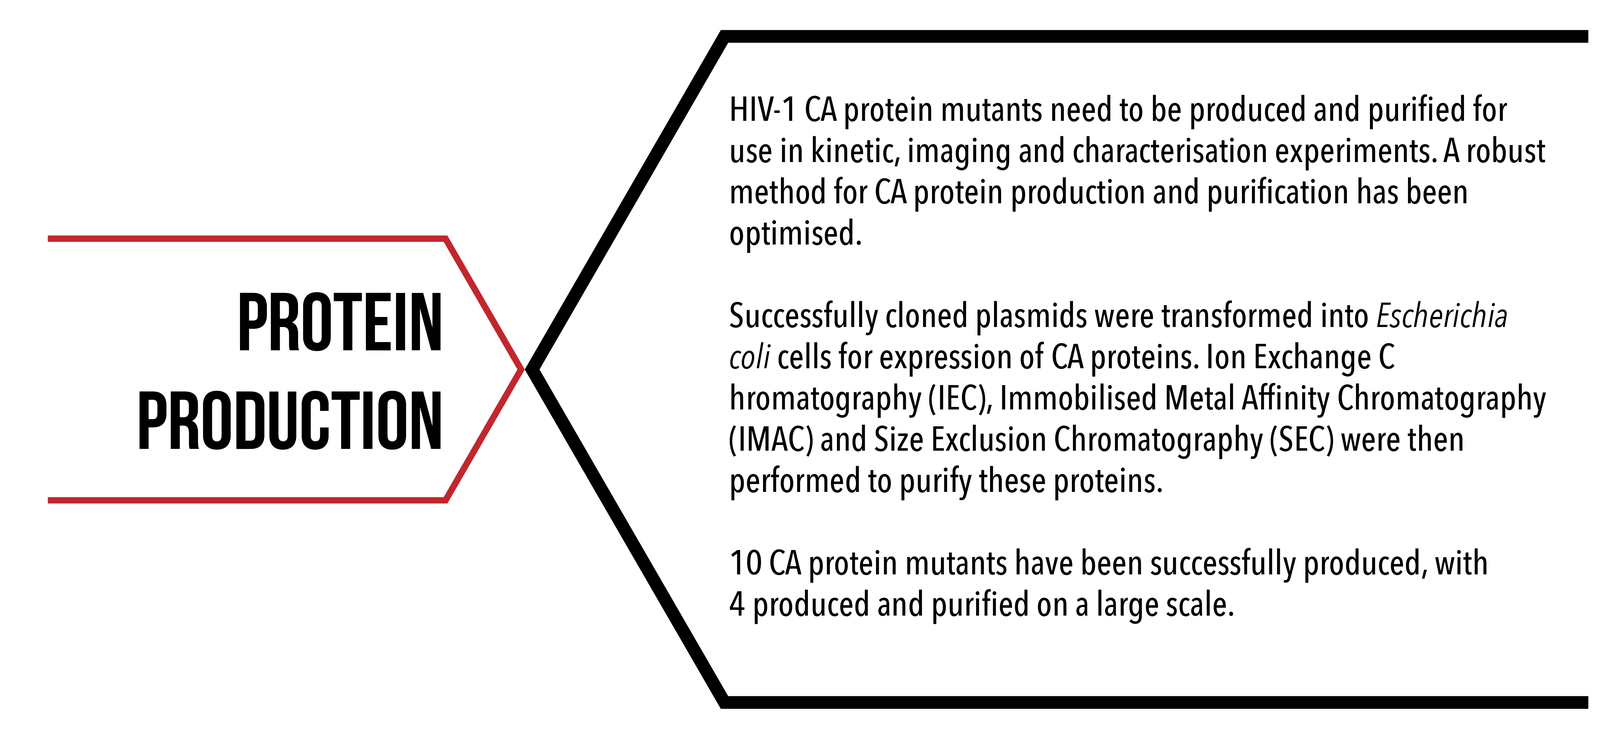
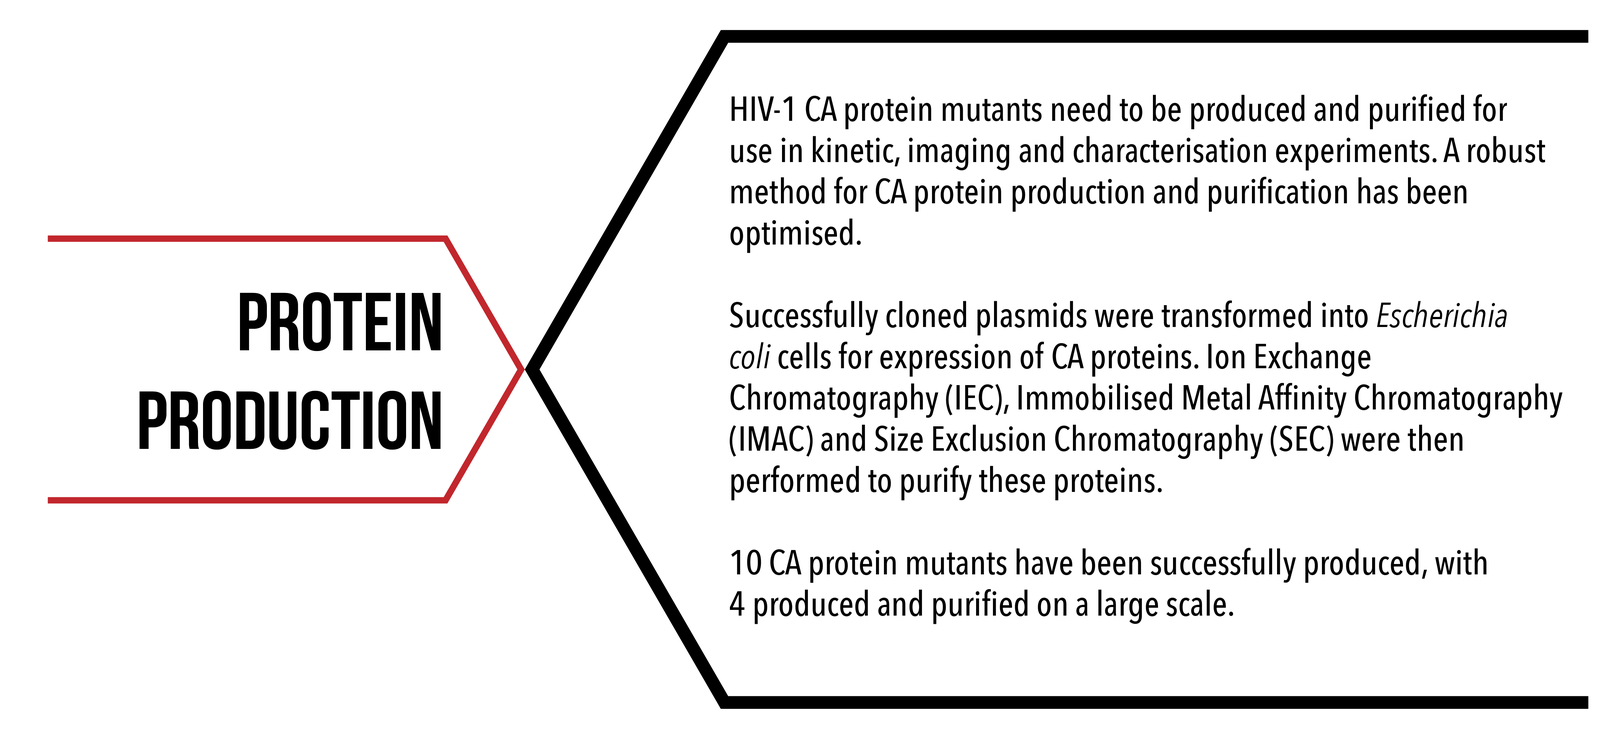
Jon proofs II

Changed region(s): [[0.4657, 0.4978, 0.9935, 0.5601]]

diff --git a/lab-book/kinetics/spr.html b/lab-book/kinetics/spr.html
@@ -60,7 +60,7 @@
 					<h2>Introduction</h2>
 				</div>
 
-				<p>Surface plasmon resonance (SPR) is a phenomenon that occurs when focused light strikes metal surfaces at a particular angle. At a certain angle of incidence, light reflected off the metal surface has a graded reduction in its intensity and this reduction can be measured <sup>1</sup>. SPR instruments exploit this phenomenon, allowing for quantifiable, label-free, real-time detection of molecular binding by mass on the nano-scale (see figure 1 for schematic diagram), with sensitivity in the picrogram per mm<sup>2</sup> range <sup>2</sup>.</p>
+				<p>Surface plasmon resonance (SPR) is a phenomenon that occurs when focused light strikes metal surfaces at a particular angle. At a certain angle of incidence, light reflected off the metal surface has a graded reduction in its intensity and this reduction can be measured <sup>1</sup>. SPR instruments exploit this phenomenon, allowing for quantifiable, label-free, real-time detection of molecular binding by mass on the nano-scale (see figure 1 for schematic diagram), with sensitivity in the picogram per mm<sup>2</sup> range <sup>2</sup>.</p>
 
 				<p>The assembly of the HIV capsid is governed by the interactions of its individual protein subunits – but the mechanisms by which they coordinate this behaviour is unknown. Obtaining quantitative data for HIV-1 CA protein binding to its neighbours is paramount in deriving the binding affinity that CA proteins have to each other. We can use SPR to indirectly measure binding of CA proteins to each other. Knowing the rate of association and dissociation of CA proteins to each other will lead not only to fundamental understanding of HIV capsid self-assembly, but also to greater understanding of molecular-self assembly more generally, and to new techniques to test HIV capsid-disrupting peptides.</p>
 
@@ -74,7 +74,7 @@
 
 				<p class="caption">Figure 2: SPR DNA template and CA protein attachment.</p>
 
-				<p>We functionalised a gold-plated CM5 chip for use in our Biacore SPR instrument using streptavidin/biotin chemistry. This combination of surface chemistry provides a means to anchor DNA templates to the surface. First, we add a biotinylated 15 base DNA anchor to the surface, the flow on DNA racquet scaffolds that contain complementary 15 base overhang. We are then able to flow on the protein of interest and observe for binding. Binding of biological material to the DNA racquet is detected as a phase shift in light reflected off the chip's surface, with the distance of the phase shift corresponding to the mass of material that binds. Using SPR we can detect binding and unbinding of CA proteins to our DNA racquet template under a number of different conditions <sup>3</sup>. Analysing this data and using it to parameterise our <a href="/lab-book/mathematical-modelling.html">mathematical models</a>, we can derive the rates of association (k<sub>on</sub>) and dissociation (k<sub>off</sub>) for both the attachment chemistry of the 6His tag and subsequently the binding of the capsid protein to itself.</p>
+				<p>We functionalised a gold-plated CM5 chip for use in our Biacore SPR instrument using streptavidin/biotin chemistry. This combination of surface chemistry provides a means to anchor DNA templates to the surface. First, we add a biotinylated 15 base DNA anchor to the surface, then flow on DNA racquet scaffolds that contain complementary 15 base overhang. We are then able to flow on the protein of interest and observe for binding. Binding of biological material to the DNA racquet is detected as a phase shift in light reflected off the chip's surface, with the distance of the phase shift corresponding to the mass of material that binds. Using SPR we can detect binding and unbinding of CA proteins to our DNA racquet template under a number of different conditions <sup>3</sup>. Analysing this data and using it to parameterise our <a href="/lab-book/mathematical-modelling.html">mathematical models</a>, we can derive the rates of association (k<sub>on</sub>) and dissociation (k<sub>off</sub>) for both the attachment chemistry of the 6His tag and subsequently the binding of the capsid protein to itself.</p>
 
 				<div id="aims">
 					<h2>Aims</h2>
@@ -196,7 +196,7 @@
 
 				<p>Monomeric: (W184A/M185A, C-terminal 6His) – HIV-1 CA with a mutation that increases the propensity for the protein to remain monomeric in solution and with a polyhistidine tag for conjugation to DNA.</p>
 
-				<p>Dimer disrupted 6His fractions: (W184A/M185A, C-terminal 6His) – Three other fractions of the above <em>Monomeric</em> protein constructs were obtained before and after elution using size exclusion chromatography:</p>
+				<p>Dimer disrupted 6His fractions: (W184A/M185A, C-terminal 6His) – Three other fractions of the above <em>monomeric</em> protein constructs were obtained before and after elution using size exclusion chromatography:</p>
 
 				<img class="img-fluid protcon" src="/images/spr-6.jpg" />
 
@@ -335,9 +335,9 @@
 					<h2>Conclusions</h2>
 				</div>
 
-				<p>Novel single-stranded DNA origami racquets and linear templates were successfully synthesised and their predicted size bwfore and after annealing NTA-modified DNA and complementary DNA confirmed on 10% native PAGE gels. Proof of concept of the ability of the racquets to localise protein binding using NiNTA-DNA chemistry was confirmed using SPR but only Monomeric (W184A/M185A, C-terminal 6His) and Dimer-fraction size-excluded (W184A/M185A, C-terminal 6His) CA proteins showed binding to our racquets without nonspecific binding. Racquet templates with more NTA-DNA sites were able to bind more CA protein but more work needs to be done to confirm whether that increase is exactly proportional to the number of NTA-DNA sites on the racquet templates. </p>
+				<p>Novel single-stranded DNA origami racquets and linear templates were successfully synthesised and their predicted size before and after annealing NTA-modified DNA and complementary DNA confirmed on 10% native PAGE gels. Proof of concept of the ability of the racquets to localise protein binding using NiNTA-DNA chemistry was confirmed using SPR but only monomeric (W184A/M185A, C-terminal 6His) and dimer-fraction size-excluded (W184A/M185A, C-terminal 6His) CA proteins showed binding to our racquets without nonspecific binding. Racquet templates with more NTA-DNA sites were able to bind more CA protein but more work needs to be done to confirm whether that increase is exactly proportional to the number of NTA-DNA sites on the racquet templates. </p>
 
-				<p>Hexamer intermediate CA proteins appear to have an affinity directly to DNA and are able to seed larger intermediate structures with DNA acting as a seed. This was evident for both the Discrete Hexameric CA proteins and the Hexamer fraction of the W184A/M185A, C-terminal 6His mutant CA proteins. Using SPR, we were able to confirm that we can measure the interactions rates between protein subunits to DNA scaffolds, and further work will allow us to extrapolate the binding affinity of the CA proteins to each other.</p>
+				<p>Hexamer intermediate CA proteins appear to have an affinity directly to DNA and are able to seed larger intermediate structures with DNA acting as a seed. This was evident for both the discrete hexameric CA proteins and the hexamer fraction of the W184A/M185A, C-terminal 6His mutant CA proteins. Using SPR, we were able to confirm that we can measure the interactions rates between protein subunits to DNA scaffolds, and further work will allow us to extrapolate the binding affinity of the CA proteins to each other.</p>
 
 				<p>Further work to derive association and dissociation rates of HIV capsid protein interactions will continue at UNSW’s Lee Lab. Multi-capsid proteins were seeded on DNA racquets but further work, including testing with disruptive peptides, still needs to be done to confirm capsid protein conformation. If CA hexamer-disrupting peptides were able to prevent the binding of CA protein to racquets with 6 NTA-DNA sites we would be able to confirm that our racquet template is able to seed the formation of hexameric CA proteins. </p>
 

diff --git a/lab-book/protein-engineering/protein-production.html b/lab-book/protein-engineering/protein-production.html
@@ -80,7 +80,7 @@
 				<img class="img-fluid" src="/images/production-3.png" style="float:right; width: 50%" />
 				<p class="caption">Figures 1 (left) and 2 (right): Flowcharts of CA protein production and purification method.</p>
 
-				<p>Plasmids containing the desired insert were heat shock transformed into <em>Escherichia coli </em>BL21 (DE3) pLysS cells. The bacteria were grown in Luria broth (LB) media at 37C, induced by addition of isopropyl &beta;-D-1-thiogalactopyranoside (IPTG) to 0.4 mM when the optical density at 600 nm of the media reached 0.6 and then grown overnight at 20C. The cell pellet was collected by centrifugation and lysed by sonication. The cell lysate was then centrifuged to remove cell debris, and only the soluble supernatant was collected.</p>
+				<p>Plasmids containing the desired insert were heat shock transformed into <em>Escherichia coli </em>BL21 (DE3) pLysS cells. The bacteria were grown in Luria broth (LB) media at 37&deg;C, induced by addition of isopropyl &beta;-D-1-thiogalactopyranoside (IPTG) to 0.4 mM when the optical density at 600 nm of the media reached 0.6 and then grown overnight at 20&deg;C. The cell pellet was collected by centrifugation and lysed by sonication. The cell lysate was then centrifuged to remove cell debris, and only the soluble supernatant was collected.</p>
 
 				<p>NaCl was added to 2.5 M to precipitate the CA protein, as the CA protein aggregates under high salt conditions. After incubation on a spinning rotor at 4C overnight, the protein was collected by centrifugation, resuspended and a second salt precipitation was performed. After centrifugation and resuspension in a buffer with NaCl, the protein was purified with either Immobilised Metal Affinity Chromatography (IMAC) or Ion Exchange Chromatography (IEC) and Size Exclusion Chromatography (SEC). The purified protein was then concentrated by centrifugation using a 10 kDa filter and snap frozen in 10% glycerol.</p>
 
@@ -91,15 +91,15 @@
 
 					<h3>Heat shock transformation into chemically competent <em>E. coli</em> BL21DE3 (pLysS) cells</h3>
 
-					<p>2 &micro;L of plasmid construct was incubated with 18 &micro;L of chemically competent <em>E. coli</em> BL21DE3 (pLysS) cells on ice for 20 minutes. The cells were then heat shocked for 45 seconds at 42C and placed back onto ice for 2 minutes. The cells were allowed to grow for 45 minutes in 200 &micro;L of SOC outgrowth media (NEB) at 37C and 170 rpm, spread plated onto Luria broth (LB) agar plates containing 100 &micro;g/mL of ampicillin and 34 &micro;g/mL of chloramphenicol and grown at 37C overnight.</p>
+					<p>2 &micro;L of plasmid construct was incubated with 18 &micro;L of chemically competent <em>E. coli</em> BL21DE3 (pLysS) cells on ice for 20 minutes. The cells were then heat shocked for 45 seconds at 42C and placed back onto ice for 2 minutes. The cells were allowed to grow for 45 minutes in 200 &micro;L of SOC outgrowth media (NEB) at 37&deg;C and 170 rpm, spread plated onto Luria broth (LB) agar plates containing 100 &micro;g/mL of ampicillin and 34 &micro;g/mL of chloramphenicol and grown at 37&deg;C overnight.</p>
 
 					<h3>Generation of starter culture</h3>
 
-					<p>One colony was selected from the plate grown overnight at random and grown in 15 mL of LB containing 100 &micro;g/mL of ampicillin and 34 &micro;g/mL of chloramphenicol at 37C and 170 rpm until the optical density at 600 nm (OD600) &gt; 1.</p>
+					<p>One colony was selected from the plate grown overnight at random and grown in 15 mL of LB containing 100 &micro;g/mL of ampicillin and 34 &micro;g/mL of chloramphenicol at 37&deg;C and 170 rpm until the optical density at 600 nm (OD600) &gt; 1.</p>
 
-					<h3>Large scale grow up of <em>E. coli</em> (4-8 L) at 37C 160 rpm.</h3>
+					<h3>Large scale grow up of <em>E. coli</em> (4-8 L) at 37&deg;C 160 rpm.</h3>
 
-					<p>4 to 8 flasks containing 500 mL of LB containing 100 &micro;g/mL of ampicillin and 34 &micro;g/mL of chloramphenicol at 37C were inoculated with the starter culture to a starting OD600 of 0.005. The cells were grown at 37C and 170 rpm and OD600 was periodically measured. When the OD600 reached above 0.6, IPTG was added to a final concentration of 0.4 mM to induce the expression of the CA protein. After induction, the cells were grown overnight at 20C and 170 rpm.</p>
+					<p>4 to 8 flasks containing 500 mL of LB containing 100 &micro;g/mL of ampicillin and 34 &micro;g/mL of chloramphenicol at 37&deg;C were inoculated with the starter culture to a starting OD600 of 0.005. The cells were grown at 37&deg;C and 170 rpm and OD600 was periodically measured. When the OD600 reached above 0.6, IPTG was added to a final concentration of 0.4 mM to induce the expression of the CA protein. After induction, the cells were grown overnight at 20&deg;C and 170 rpm.</p>
 
 					<h3>Collection of cells by centrifugation</h3>
 
@@ -151,11 +151,11 @@
 
 				<p class="caption">Figure 3: Purification of HIV-1 CA proteins with A280 UV absorbance elution profiles and SDS-gel confirmation, from (A) Ion Exchange Chromatography and (B) Size Exclusion Chromatograhy. Flow through of Wild type HIV-1 CA (dimer) (top row) and Wild-type HIV-1 CA (dimer) with 6-Histidine tag (bottom row) were collected in 1-2mL fractions. Fractions corresponding to the largest elution peaks were run on SDS-PAGE gels.</p>
 
-				<p>Due to technical difficulties with our AKTA machine, we were unable to perform IMAC on some of our proteins with this method. An alternative nickel gravity flow column was used to separate out our target proteins based upon their affinity to nickel ions. Results of these exclusions post-SEC are shown in Figure 4 Fractions corresponding to the largest peaks on these elutions were run on SDS-PAGE gel to confirm purification of our target protein. Bands of the correct molecular weight were observed across proteins.</p>
+				<p>Due to technical difficulties with our AKTA machine, we were unable to perform IMAC on some of our proteins with this method. An alternative nickel gravity flow column was used to separate out our target proteins based upon their affinity to nickel ions. Results of these exclusions post-SEC are shown in Figure 4. Fractions corresponding to the largest peaks on these elutions were run on SDS-PAGE gel to confirm purification of our target protein. Bands of the correct molecular weight were observed across proteins.</p>
 
 				<img class="img-fluid" src="/images/production-5.png" />
 
-				<p class="caption">Figure 4: Purification of HIV-CA proteins with A280 UV absorbance elution profiles and SDS-gel confirmation, from Size Exclusion Chromatography. Flow through of monomeric wild-type HIV-1 CA with 6-Histidine tag (top left), K158C HIV-1 CA (dimer) with Spy Catcher and 6-Histidine tag (top right), and monomeric K158C HIV-1 CA with Spy Catcher and 6-Histidine tag (bottom) were collected in 1-2mL fractions. Fractions corresponding to the largest elution peaks were run on SDS-PAGE gels.</p>
+				<p class="caption">Figure 4: Purification of HIV-CA proteins with A280 UV absorbance elution profiles and SDS-gel confirmation, from Size Exclusion Chromatography. Flow-through of monomeric wild-type HIV-1 CA with 6-Histidine tag (top left), K158C HIV-1 CA (dimer) with Spy Catcher and 6-Histidine tag (top right), and monomeric K158C HIV-1 CA with Spy Catcher and 6-Histidine tag (bottom) were collected in 1-2mL fractions. Fractions corresponding to the largest elution peaks were run on SDS-PAGE gels.</p>
 
 				<div id="conclusion">
 					<h2>Conclusion</h2>

diff --git a/lab-book/conjugation-chemistry.html b/lab-book/conjugation-chemistry.html
@@ -172,7 +172,7 @@
 					<h3>Method 3 - SpyCatcher/SpyTag Isopeptide Bond</h3>
 				</div>
 
-				<p>Unlike most peptide/protein interactions, this technique involves a highly selective and irreversible chemical reaction centring on the formation of an isopeptide bond between the short peptide SpyTag and its protein partner SpyCatcher. In this project, SpyCatcher has been appended to protein constructs as a mutation during expression, while SpyTag is conjugated to DNA. The opposite configuration is possible, but was not explored in this project.</p>
+				<p>Unlike most peptide/protein interactions, this technique involves a highly selective and irreversible chemical reaction centering on the formation of an isopeptide bond between the short peptide SpyTag and its protein partner SpyCatcher. In this project, SpyCatcher has been appended to protein constructs as a mutation during expression, while SpyTag is conjugated to DNA. The opposite configuration is possible, but was not explored in this project.</p>
 
 				<h4>Conjugation of SpyTag to DNA</h4>
 
@@ -311,7 +311,7 @@
 				<h3>Tris NTA DNA Purification</h3>
 				<p>The reaction mixture was purified using PAGE. Eight 22% denaturing gels were cast as per standard procedure and the well combs deliberately not used when pouring the stacking gel. 20 &micro;L of the NTA reaction mixture was diluted to 400 &micro;L with deionised water and added to 400 &micro;L of loading dye. This mixture was divided into 100&micro;L portions, each of which was loaded on to one of the denaturing gels. After running, the gels were stained with SYBR-Gold and visualised on a blue/UV light box to determine the location of the tris NTA band. This band was excised, crushed and left sitting in 20mM Tris HCl (pH 8) overnight. The next day, the gel slurry was separated with centrifuge membrane filters (Spin-X) and the filtrate concentrated by vacuum evaporation. This concentrate was desalted using pre-swollen G10 resin and the final concentration determined by visualisation alongside known standards on a denaturing polyacrylamide gel with a SYBR-Gold post-stain to allow quantification.</p>
 				<h3>SMCC Modification and Purification</h3>
-				<p>2 mg of SMCC, 60 &micro;L of DMF, 1 &micro;L of DIPEA and 2 &micro;L of aminated DNA at 10 mM were added to a clean Eppendorf tube and agitated for 30 minutes at room temperature. Following this, the mixture was diluted to 200 &micro;L with deionised water, and added to 50 &micro;L of pH 5 NaCH<sub>3</sub>COO buffer with 800 &micro;L of absolute ethanol. This substance was chilled at -80&deg;C for 30 minutes, then centrifuged at 14,000 g at 4&deg;C in a pre-cooled centrifuge leading to the formation of a visible DNA pellet. The supernate was removed, and the pellet dried in a 37&deg;C incubator for 15 minutes before being resuspended with deionised water. This solution was then desalted using pre-swollen G10 resin, before being characterised with UV-Vis spectroscopy to determine yield and purity. The process was sometimes repeated if the UV-Vis spectra indicated the presence of contaminants. Once purified, the SMCC DNA was distributed into 1 nmol aliquots, vacuum evaporated until dry and stored at -20&deg;C.</p>
+				<p>2 mg of SMCC, 60 &micro;L of DMF, 1 &micro;L of DIPEA and 2 &micro;L of aminated DNA at 10 mM were added to a clean Eppendorf tube and agitated for 30 minutes at room temperature. Following this, the mixture was diluted to 200 &micro;L with deionised water, and added to 50 &micro;L of pH 5 NaCH<sub>3</sub>COO buffer with 800 &micro;L of absolute ethanol. This substance was chilled at -80&deg;C for 30 minutes, then centrifuged at 14,000 g at 4&deg;C in a pre-cooled centrifuge leading to the formation of a visible DNA pellet. The supernatant was removed, and the pellet dried in a 37&deg;C incubator for 15 minutes before being resuspended with deionised water. This solution was then desalted using pre-swollen G10 resin, before being characterised with UV-Vis spectroscopy to determine yield and purity. The process was sometimes repeated if the UV-Vis spectra indicated the presence of contaminants. Once purified, the SMCC DNA was distributed into 1 nmol aliquots, vacuum evaporated until dry and stored at -20&deg;C.</p>
 				<h3>Spy Tag Conjugation</h3>
 				<p>10 &micro;L of Spy Tag peptide solution at 1 mM was vacuum evaporated until dry in a clean Eppendorf tube. This was added to 2 &micro;L of deionised water, 1.5 &micro;L of 0.5M NaCl, 1 &micro;L of 0.1M Tris HCl (pH 7.5) and 0.5 &micro;L of 10 mM TCEP. After incubating for 15 minutes, this was transferred to another tube containing 1 nmol of dried SMCC modified DNA and left overnight. The reaction was visualised on a denaturing PAGE gel with a SYBR Gold post stain.</p>
 				<h3>Spy Tag DNA Purification</h3>

diff --git a/lab-book/dna-origami.html b/lab-book/dna-origami.html
@@ -1,4 +1,4 @@
-<!DOCTYPE html>
+<!DOCTYPE html>
 
 <html>
 
@@ -186,7 +186,7 @@
 						<h2>Synthesis</h2>
 					</div>
 
-					<p>DNA origami is formed by the process of annealing, where staple strands, backbone strands, buffer, water and salts (Magnesium Chloride) are mixed in solution and then subject to a cycle of rapid heating and slow cooling. Theoretically, each staple strand can fold a backbone strand, however in reality not all strands do. For this reason, staple strands are added in excess (usually in 5-fold excess). <sup>5</sup></p>
+					<p>DNA origami is formed by the process of annealing, where staple strands, backbone strands, buffer, water and salts (magnesium chloride) are mixed in solution and then subject to a cycle of rapid heating and slow cooling. Theoretically, each staple strand can fold a backbone strand, however in reality not all strands do. For this reason, staple strands are added in excess (usually in 5-fold excess). <sup>5</sup></p>
 
 					<p>The two most important factors for DNA origami formation are magnesium concentration and duration of the anneal. </p>
 
@@ -206,7 +206,7 @@
 
 					<p class="caption">Figure 11: CanDo images of Blockagon.</p>
 
-					<p>The following movies were also outputted, showing relatively low instability , with a standard displacement of &lt;0.8 (click to play).</p>
+					<p>The following movies were also outputted, showing relatively low instability , with a standard displacement of &lt;0.8nm (click to play).</p>
 
 					<div class="video" class="embed-responsive embed-responsive-16by9">
 						<video class="embed-responsive-item" controls allowfullscreen onclick="this.paused ? this.play() : this.pause();">
@@ -697,13 +697,13 @@
 					</div>
 
 					<ol>
-						<li><em>Folding DNA to create nanoscale shapes and patterns. </em><b>Rothemund, P W K.</b> s.l.: Nature, 2006, Vol. 440.</li>
-						<li><em>Self-assembly of DNA into nanasocle three-dimensional shapes. </em><b>Douglas, S M, et al.</b> 8, s.l.: Nature, 2009, Vol. 459.</li>
-						<li><em>A primer to scaffolded DNA origami. </em><b>Castro, C E, et al.</b> 3, s.l.: Perspective, 2011, Vol. 8.</li>
-						<li><b>[Online] 2011. https://eurofinsgenomics.jp/media/48523/product-sheet-single-stranded-scaffold-dna-type-7249-m1-10.pdf.</b></li>
-						<li><b><em>Magnesium-free self-assembly of multi-layer DNA objects . </em>Martin, T G and Dietz, H. s.l.: Nature Communications,
-						2012.</b></li>
-						<li><b>Rothemund, P W K. <em>Design of DNA origami. </em>s.l.: California Insitute of Technology.</b></li>
+						<li><em>Folding DNA to create nanoscale shapes and patterns. </em>Rothemund, P W K. s.l.: Nature, 2006, Vol. 440.</li>
+						<li><em>Self-assembly of DNA into nanoscale three-dimensional shapes. </em>Douglas, S M, et al. 8, s.l.: Nature, 2009, Vol. 459.</li>
+						<li><em>A primer to scaffolded DNA origami. </em>Castro, C E, et al. 3, s.l.: Perspective, 2011, Vol. 8.</li>
+						<li>[Online] 2011. https://eurofinsgenomics.jp/media/48523/product-sheet-single-stranded-scaffold-dna-type-7249-m1-10.pdf.</li>
+						<li><em>Magnesium-free self-assembly of multi-layer DNA objects . </em>Martin, T G and Dietz, H. s.l.: Nature Communications,
+						2012.</li>
+						<li>Rothemund, P W K. <em>Design of DNA origami. </em>s.l.: California Insitute of Technology.</li>
 				</ol>
 
 			</div>

diff --git a/lab-book/imaging/tirf.html b/lab-book/imaging/tirf.html
@@ -58,7 +58,7 @@
 				<div id="introduction">
 					<h2>Introduction</h2>
 				</div>
-				<p>Total Internal Reflection Fluorescence Microscopy is a single molecule imaging technique which allows for precise observations of single molecule binding events to a surface. TIRFM can be used to provide data on how our HIV-1 CA proteins bind to our DNA origami scaffold structure. </p>
+				<p>Total Internal Reflection Fluorescence Microscopy is a single molecule imaging technique which allows for precise observations of single molecule binding events to a surface. TIRF microscropy can be used to provide data on how our HIV-1 CA proteins bind to our DNA origami scaffold structure. </p>
 
 				<p>Our microscope is able to execute fluorescent microscopy in two settings, epifluorescence microscopy and TIRF microscopy. The difference between these settings is the angle at which the laser is directed towards the objective (see figure 1). Epifluorescence allows a directed column of laser to pass through the entirety of the sample, whereas TIRF angles the laser to a reflective angle, with the site of the angle of incidence emitting an evanescent field which penetrates only a thin layer of the sample due to degradation of the light over time. </p>
 				<p>TIRF microscopy is ideally suited to single molecule experiments as the illumination of only a thin layer of sample allows for the elimination of noise caused by excess fluorophores, as only fluorophores bound to the surface will emit an excitation signal.</p>
@@ -83,7 +83,7 @@
 
 				<img class="img-fluid" src="/images/tirf-3.png" />
 
-				<p class="caption">Figure 2: Schematic of TIRFM microscope set-up </p>
+				<p class="caption">Figure 2: Schematic of TIRF microscope set-up </p>
 
 				<img class="img-fluid" src="/images/tirf-4.png" />
 
@@ -106,7 +106,7 @@
 				
 				<img class="img-fluid" src="/images/tirf-5.png" />
 
-				<p class="caption">Figure 4: Diagram of proposed PAINT experiment to characterise our DNA origami structure. Binding sites of DNA origami indicated in pink, excited fluorophores indicated in green.</p>
+				<p class="caption">Figure 4: Diagram of proposed PAINT experiment to characterise our DNA origami structure. Binding sites of DNA origami indicated in pink, excited fluorophores indicated in red.</p>
 				
 				<h3>Seeded assembly of HIV-1 CA proteins</h3>
 				

diff --git a/lab-book/kinetics/blitz.html b/lab-book/kinetics/blitz.html
@@ -205,7 +205,7 @@
 				<img class="img-fluid" src="/images/blitz-4.png" />
 
 				<p>Unfortunately, due to the inability to extract a useful control experiment, the monomeric CA protein binding curves are not particularly helpful. Whilst binding appears to occur at the point of protein addition, the control curve (which inexplicably rising over time, despite only buffer being used) also shows a similar binding curve. As such, at the very least, this BLItz experiment does not provide evidence for monomeric protein interaction with single stranded or double stranded DNA. </p>
-				<p>Whilst an interesting avenue of research, this outcome would be preferential for our experiments. If our protein consistently interacted with single stranded and/or double stranded DNA, we would be unable to use DNA scaffolds as our vehicle of assembly. Take an in-depth look at our DNA scaffold here. Non-specific binding would discredit any quantitative data established. </p>
+				<p>Whilst an interesting avenue of research, this outcome would be preferential for our experiments. If our protein consistently interacted with single stranded and/or double stranded DNA, we would be unable to use DNA scaffolds as our vehicle of assembly. Take an in-depth look at our DNA scaffold <a href="/lab-book/dna-origami.html">here</a>. Non-specific binding would discredit any quantitative data established. </p>
 
 				<div id="conclusion">
 					<h2>Conclusion</h2>

diff --git a/lab-book/protein-engineering/cloning.html b/lab-book/protein-engineering/cloning.html
@@ -225,7 +225,7 @@
 
 				<img class="img-fluid gel" src="/images/cloning-16.png" />
 
-				<p class="caption">Figure 15: 1% agarose gel of Colony PCR on Gibson Assemblies of Wild type protein with dimer disruption and C-terminal 6-Histidine tag, and HIV-1 CA protein with accessible cysteine on flexible loop, dimer distruption and C-terminal 6-Histidine tag.</p>
+				<p class="caption">Figure 15: 1% agarose gel of Colony PCR on Gibson Assemblies of Wild type protein with dimer disruption and C-terminal 6-Histidine tag, and HIV-1 CA protein with accessible cysteine on flexible loop, dimer disruption and C-terminal 6-Histidine tag.</p>
 				
 				<button class="toggle">Click here to see the sequencing results of the positive hits above!</button>
 				
